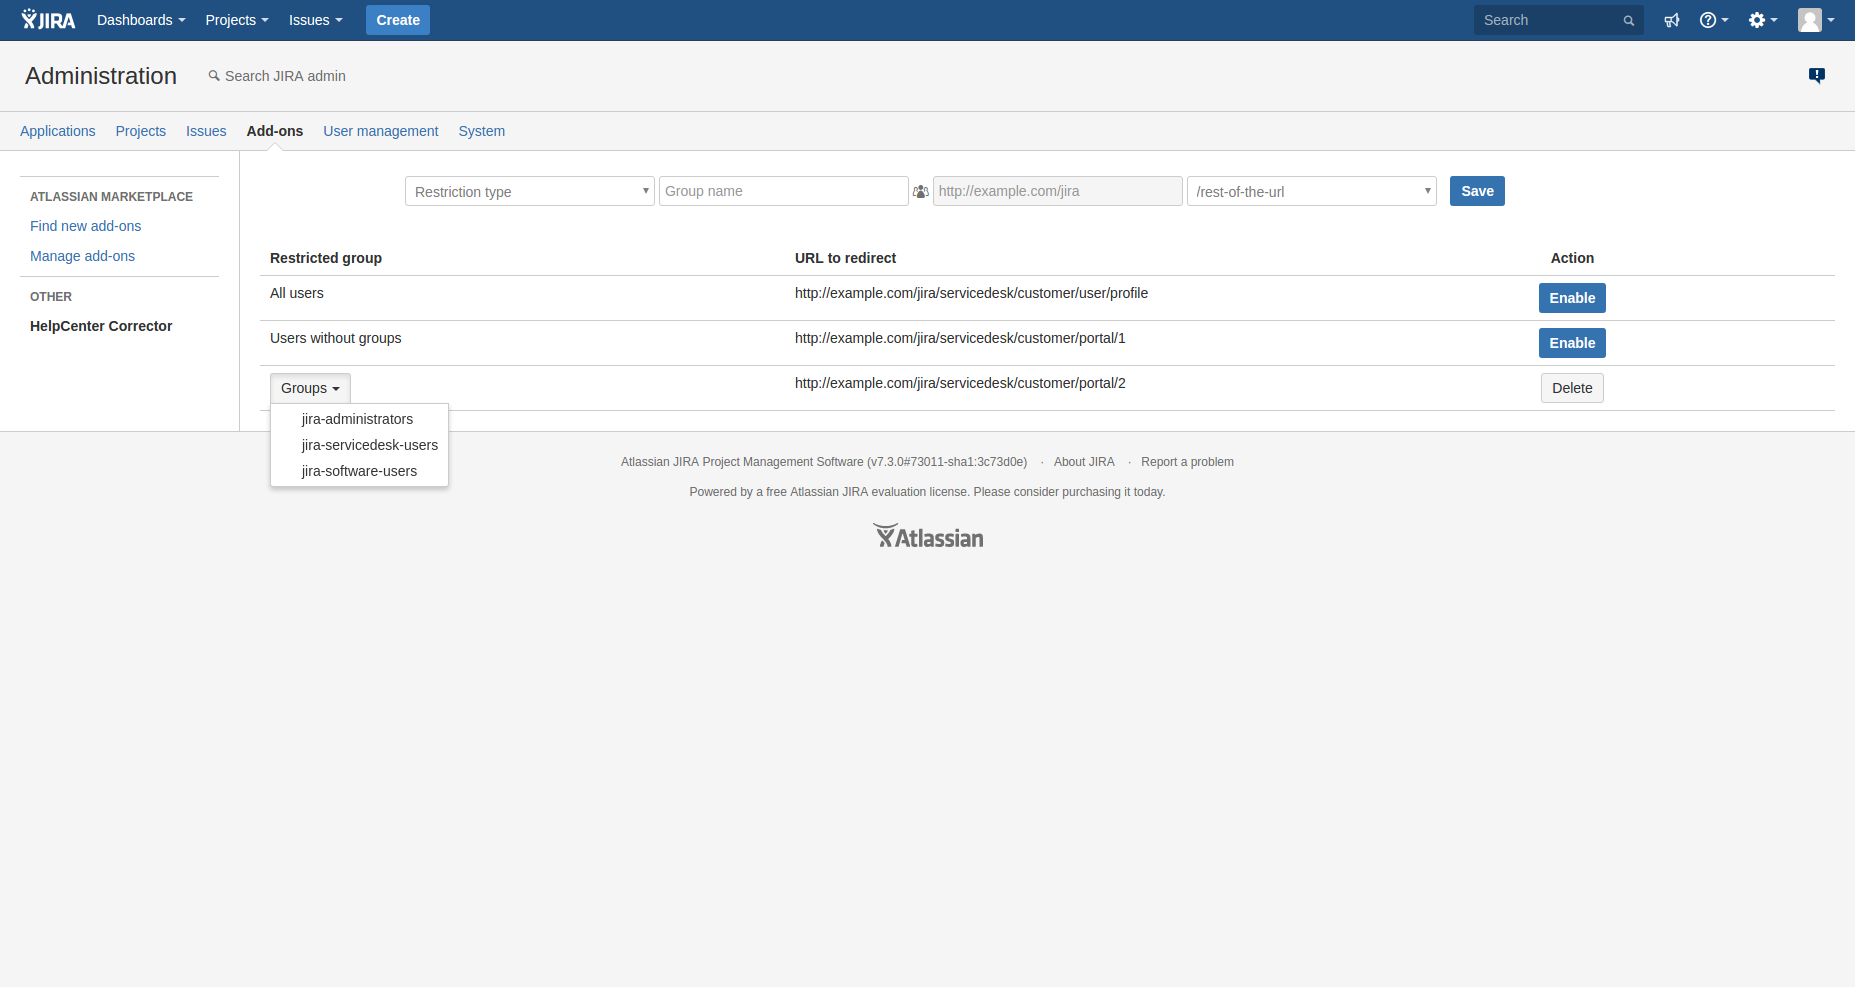
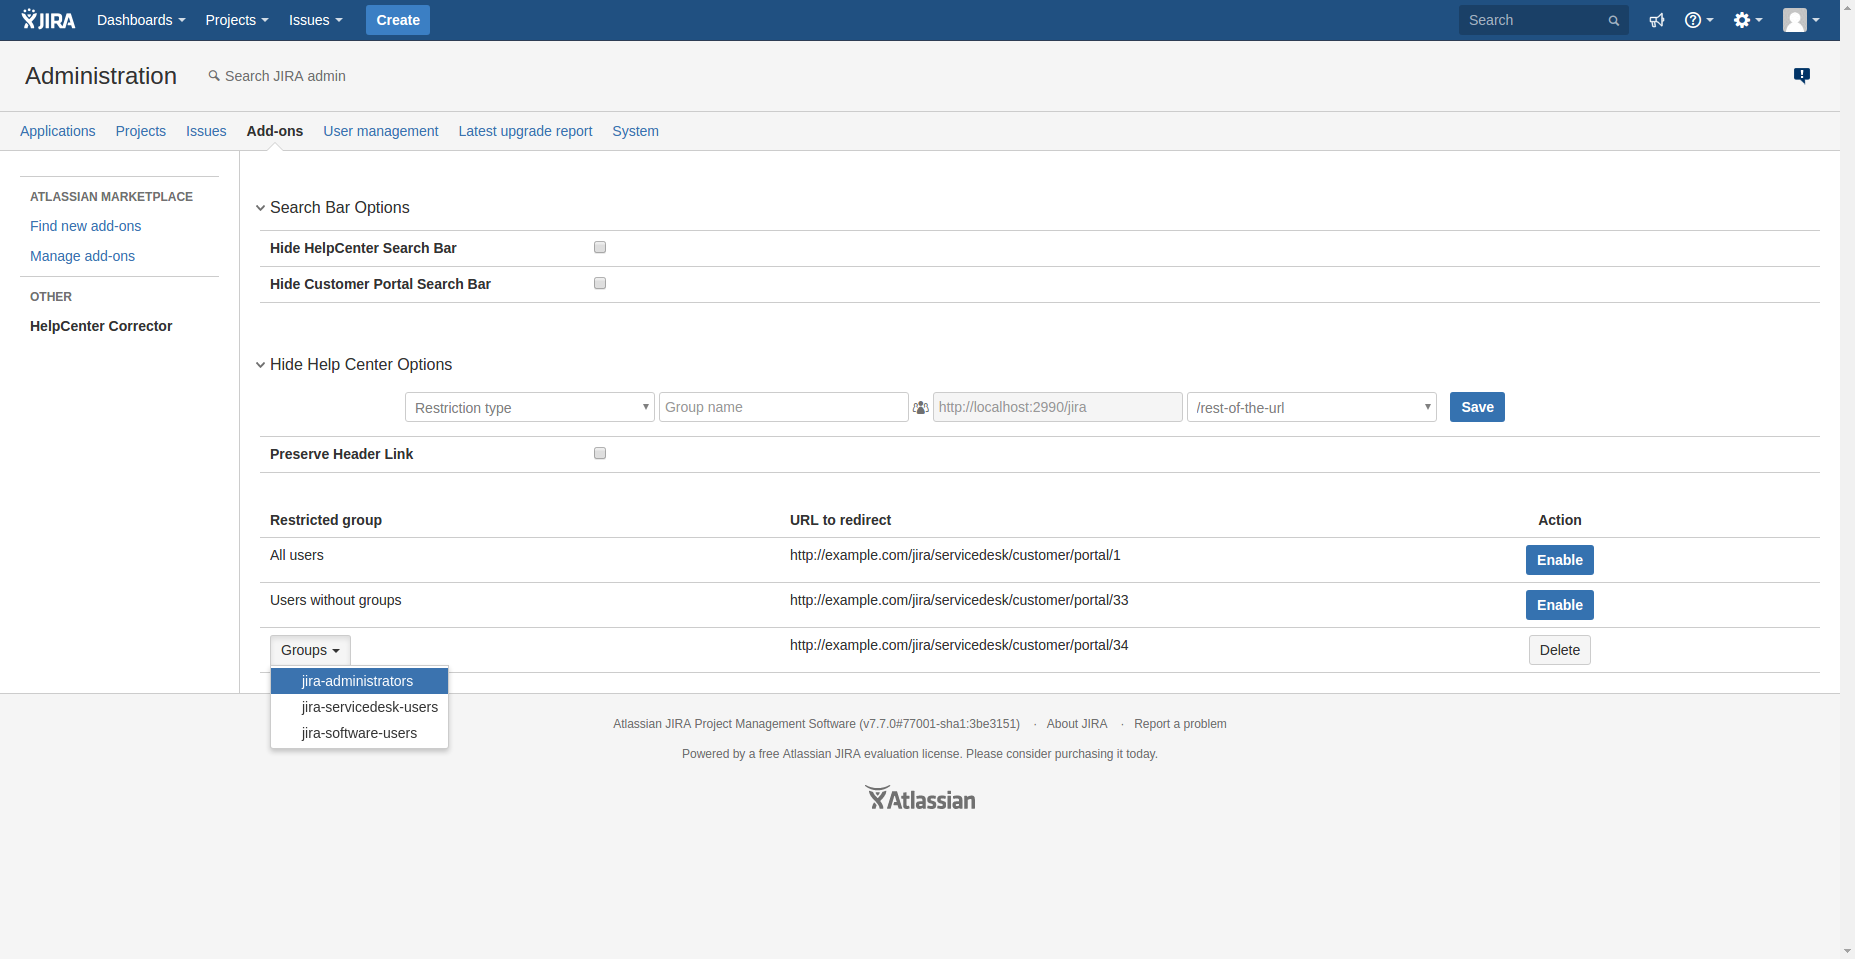
update documentation with new options

diff --git a/hc-corrector.html b/hc-corrector.html
@@ -37,6 +37,9 @@ title: HelpCenter Corrector
     If the user tries access HelpCenter using direct link, he will be redirected to the URL that you have specified.
 </p>
 <p>
+    There is also an option to save top-left corner link, but replace its URL with the one that configured.
+    To do so please check "Preserve Header Link" checkbox.
+</p>
     The restriction for users without groups can be configured in the same way as restrictions for all users.
 </p>
 <a href="#" onclick="return false;">
@@ -78,4 +81,15 @@ To remove group do the following:
          src="assets/img/screenshots/dropdown_group1.png"/>
 </a>
 <p style="text-align: center">Dropdown list with restricted groups</p>
+
+<h3>Search Bar Options</h3>
+If you need to remove search bar from Service Desk portals overview screen (Help Center) or from Customer Portal screen you can use following options:
+<ul>
+    <li>Hide HelpCenter Search Bar</li>
+    <li>Hide Customer Portal Search Bar</li>
+</ul>
+<div class="isa_info">
+    <i class="fa fa-info-circle"></i>
+    “Search Bar Options” applied to all users at once.
+</div>
 

diff --git a/assets/css/main.css b/assets/css/main.css
@@ -208,7 +208,6 @@ h1 > a:hover {
 
 .screenshot {
     display: block;
-    height: 300px;
     margin: 0 auto 20px;
     width: 560px;
 }
